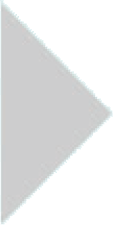
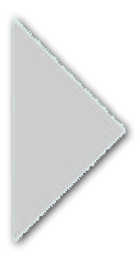
new buttons and responsive design for tablet

diff --git a/js/main.js b/js/main.js
@@ -1,4 +1,17 @@
 $(document).ready(function(){
+
+    var is_chrome = navigator.userAgent.indexOf('Chrome') > -1;
+    var is_explorer = navigator.userAgent.indexOf('MSIE') > -1;
+    var is_firefox = navigator.userAgent.indexOf('Firefox') > -1;
+    var is_safari = navigator.userAgent.indexOf("Safari") > -1;
+    var is_opera = navigator.userAgent.toLowerCase().indexOf("op") > -1;
+    if ((is_chrome)&&(is_safari)) {is_safari=false;}
+    if ((is_chrome)&&(is_opera)) {is_chrome=false;}
+    if (is_safari) {
+      $('form input[type=submit]').css('display','inline-block');
+    }
+
+
     $('#openModal').modal('show');
 
     $('#yellow').click(function() {
@@ -77,7 +90,7 @@ window.onload = function() {
   function writeData(air, water, housing, drive, driveLong) {
     $('#dataPoint1 .dataValue').html(air);
     $('#dataPoint2 .dataValue').html(water);
-    $('#dataPoint3 .dataValue').html(housing);
+    $('#dataPoint3 .dataValue').html(housing + "%");
     $('#dataPoint4 .dataValue').html(drive + "% / " + driveLong + "%");
   }
 // END
@@ -102,8 +115,6 @@ window.onload = function() {
 
   $('#yellowModal #zipClick').click(function(e) {
     e.preventDefault ? event.preventDefault() : (event.returnValue = false);
-    e.stopPropagation();
-    return false;
     newZip();
     setTimeout(function() {
       $('#yellowModal').modal('hide');

diff --git a/css/main.css b/css/main.css
@@ -378,7 +378,7 @@ form {
 .dataButtons {
   position: relative; }
   .dataButtons img {
-    width: 25px;
+    width: 27px;
     position: absolute;
     top: 170px;
     cursor: pointer;
@@ -409,9 +409,20 @@ form {
 /* ==============================================
 -------------- MEDIA QUERIES --------------------
 ================================================ */
-@media only screen and (max-width: 768px) {
+@media only screen and (max-width: 1280px) {
   .mapBack {
-    overflow: visible; }
+    overflow: visible; } }
+
+@media only screen and (max-width: 1080px) {
+  .bikeScene {
+    top: 400px;
+    left: 50px; }
+    .bikeScene #bike.ride {
+      left: 60px;
+      top: -30px;
+      opacity: 1; } }
+
+@media only screen and (max-width: 768px) {
   #banner {
     width: 122.5%;
     position: relative;

diff --git a/sass/main.scss b/sass/main.scss
@@ -372,7 +372,7 @@ form{
 .dataButtons {
     position: relative;
     img{
-        width: 25px;
+        width: 27px;
         position: absolute;
         top:170px;
         cursor: pointer;
@@ -407,12 +407,25 @@ form{
 /* ==============================================
 -------------- MEDIA QUERIES --------------------
 ================================================ */
+@media only screen and (max-width: 1280px) {
+    .mapBack{
+        overflow:visible;
+      }
+}
 
+@media only screen and (max-width: 1080px) {
+  .bikeScene{
+    top:400px;
+    left:50px;
+    #bike.ride{
+        left:60px;
+        top:-30px;
+        opacity: 1;
+    }
+  }
+}
 
 @media only screen and (max-width: 768px) {
-  .mapBack{
-    overflow:visible;
-  }
   #banner{
     width:122.5%;
     position: relative;

diff --git a/index.html b/index.html
@@ -104,7 +104,7 @@
 
 <!-- ALL MODALS-->
 <!-- Modal - OpenModal -->
-	<div class="modal fade" id="openModal" tabindex="-1" role="dialog" aria-labelledby="myModalLabel" aria-hidden="true">
+	<div class="modal fade" id="openModal" tabindex="-1" role="dialog" aria-labelledby="myModalLabel" aria-hidden="true" data-backdrop="static" data-keyboard="false">
 		<div class="modal-dialog" role="document">
 			<img src="img/banner.png" alt="" id="banner">
 			<div class="modal-content">
